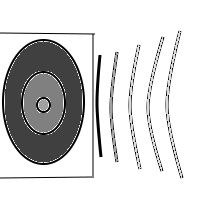
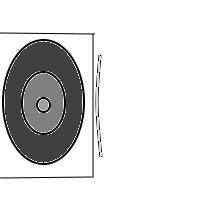
Added speech synth and updated volume down image

diff --git a/src/App.js b/src/App.js
@@ -31,6 +31,11 @@ class App extends Component {
     });
   }
 
+  speak(text){
+    let msg = new SpeechSynthesisUtterance(text);
+    window.speechSynthesis.speak(msg);
+  }
+
   clickClass(item, currentMap){
     let cssClass = "col-md-3 col-sm-6 selectionTile";
     if(currentMap[item].children && Object.keys(currentMap[item].children).length > 0){
@@ -46,6 +51,10 @@ class App extends Component {
       onClick = () => {
         this.addKeyPath(item);
       };
+    } else {
+      onClick = () => {
+        this.speak(item);
+      }
     }
 
     return onClick;
